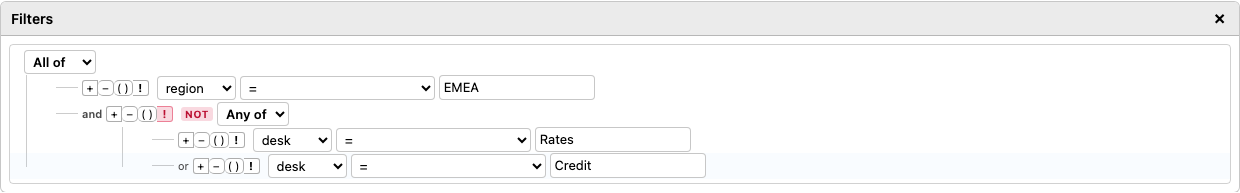
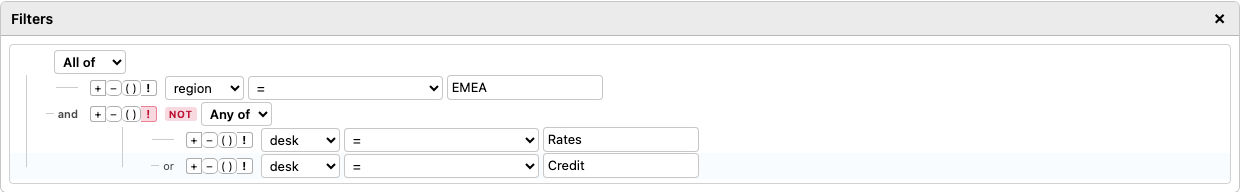
Align filter siblings: the operator word leaves the flow
The and/or word was a flex item in the row, so a row carrying it sat
further right than its own siblings -- two conditions in the same
group had their controllers, dropdowns and value boxes on different
x positions, which is exactly the thing a tree is supposed to make
easy to scan.

The lead is now a FIXED 22px box (DataCube's INDENTATION_SPACE minus
its gutter padding and offset) with its contents right-aligned, and
the word lives inside it. Its right edge is what every sibling's
controls line up against, so the word spills leftward into the
indent rather than pushing anything. When a word is present the stub
shortens instead of the box growing.

The test asserts the invariant that actually broke rather than the
pixels: siblings share an indent, and the controller follows the
lead directly in both rows, word or no word.

539 tests pass, 45 browser checks pass, tsc clean.

Claude-Session: https://claude.ai/code/session_01KHxJ3Qqd22cQu1sR4g7ugp

diff --git a/datacube/test/filter-editor.test.ts b/datacube/test/filter-editor.test.ts
@@ -192,6 +192,39 @@ describe('FilterEditor DOM', () => {
     );
   });
 
+  it('keeps siblings ALIGNED when one of them carries the word', () => {
+    // The word is inside the fixed-width lead, never a sibling of
+    // the controls. In flow it pushed everything after it, so a row
+    // carrying `or` sat further right than the row above it and the
+    // columns stopped lining up.
+    editor.addCondition();
+    editor.addCondition();
+    const rows = [...host.querySelectorAll('.dc-filter-row')].slice(1);
+    assert.equal(rows.length, 2);
+
+    const indents = rows.map((r) =>
+      (r as HTMLElement).style.getPropertyValue('--dc-f-indent'),
+    );
+    assert.equal(indents[0], indents[1], 'same indent');
+
+    // Same structure either side of the lead: the word is inside it.
+    for (const row of rows) {
+      const kids = [...row.children].map((c) => c.className.split(' ')[0]);
+      assert.deepEqual(
+        kids.slice(0, 2),
+        ['dc-filter-lead', 'dc-filter-controller'],
+        'the controller follows the lead directly, word or no word',
+      );
+    }
+    const word = host.querySelector('.dc-filter-joinword') as HTMLElement;
+    assert.equal(word.parentElement?.className.includes('dc-filter-lead'), true);
+    assert.equal(
+      word.parentElement?.classList.contains('dc-has-word'),
+      true,
+      'the lead is marked, so CSS can shorten the stub instead of growing',
+    );
+  });
+
   it('the root group has no controller; a nested one does', () => {
     // There is nothing to insert the root after, nothing to remove
     // it from, and no group to put it inside.

diff --git a/datacube/src/grid/grid.css b/datacube/src/grid/grid.css
@@ -289,24 +289,37 @@
 /* The stub joining a row to its parent's vertical rule, plus the
    operator word. The word sits BETWEEN the things being combined,
    which is where the meaning is. */
+/* A FIXED box, so the operator word cannot move the row's controls.
+   Its right edge is what every sibling's controls line up against;
+   the word spills leftward into the indent instead of pushing. */
 .dc-filter-lead {
   display: flex;
   align-items: center;
-  flex-shrink: 0;
+  justify-content: flex-end;
+  flex: 0 0 22px;
+  width: 22px;
+  margin-right: 8px;
   height: 26px;
 }
 
 .dc-filter-connector {
-  display: block;
-  width: 22px;
+  flex: 0 0 22px;
   height: 1px;
   background: color-mix(in srgb, currentColor 20%, transparent);
 }
 
+/* With a word present the stub shortens rather than the word
+   wrapping or the box growing. */
+.dc-filter-lead.dc-has-word .dc-filter-connector {
+  flex-basis: 8px;
+}
+
 .dc-filter-joinword {
+  flex: 0 0 auto;
   padding-left: 4px;
   font-size: 11px;
   opacity: 0.7;
+  white-space: nowrap;
 }
 
 /* The four-button controller DataCube puts on every node. */

diff --git a/datacube/src/ui/filter-editor.ts b/datacube/src/ui/filter-editor.ts
@@ -703,6 +703,12 @@ export class FilterEditor {
       this.select(node.id);
     });
 
+    // The lead is a FIXED-WIDTH box, and the operator word lives
+    // inside it. In flow, the word pushes everything after it, so a
+    // row carrying `or` sits further right than its own siblings and
+    // the columns stop lining up. Fixing the box and letting its
+    // contents spill left into the indent keeps every sibling's
+    // controls on the same x, which is what DataCube does.
     const lead = doc.createElement('div');
     lead.className = 'dc-filter-lead';
     if (parent) {
@@ -711,6 +717,7 @@ export class FilterEditor {
       connector.setAttribute('aria-hidden', 'true');
       lead.append(connector);
       if (index > 0) {
+        lead.classList.add('dc-has-word');
         const word = doc.createElement('span');
         word.className = 'dc-filter-joinword';
         word.textContent = parent.join;
